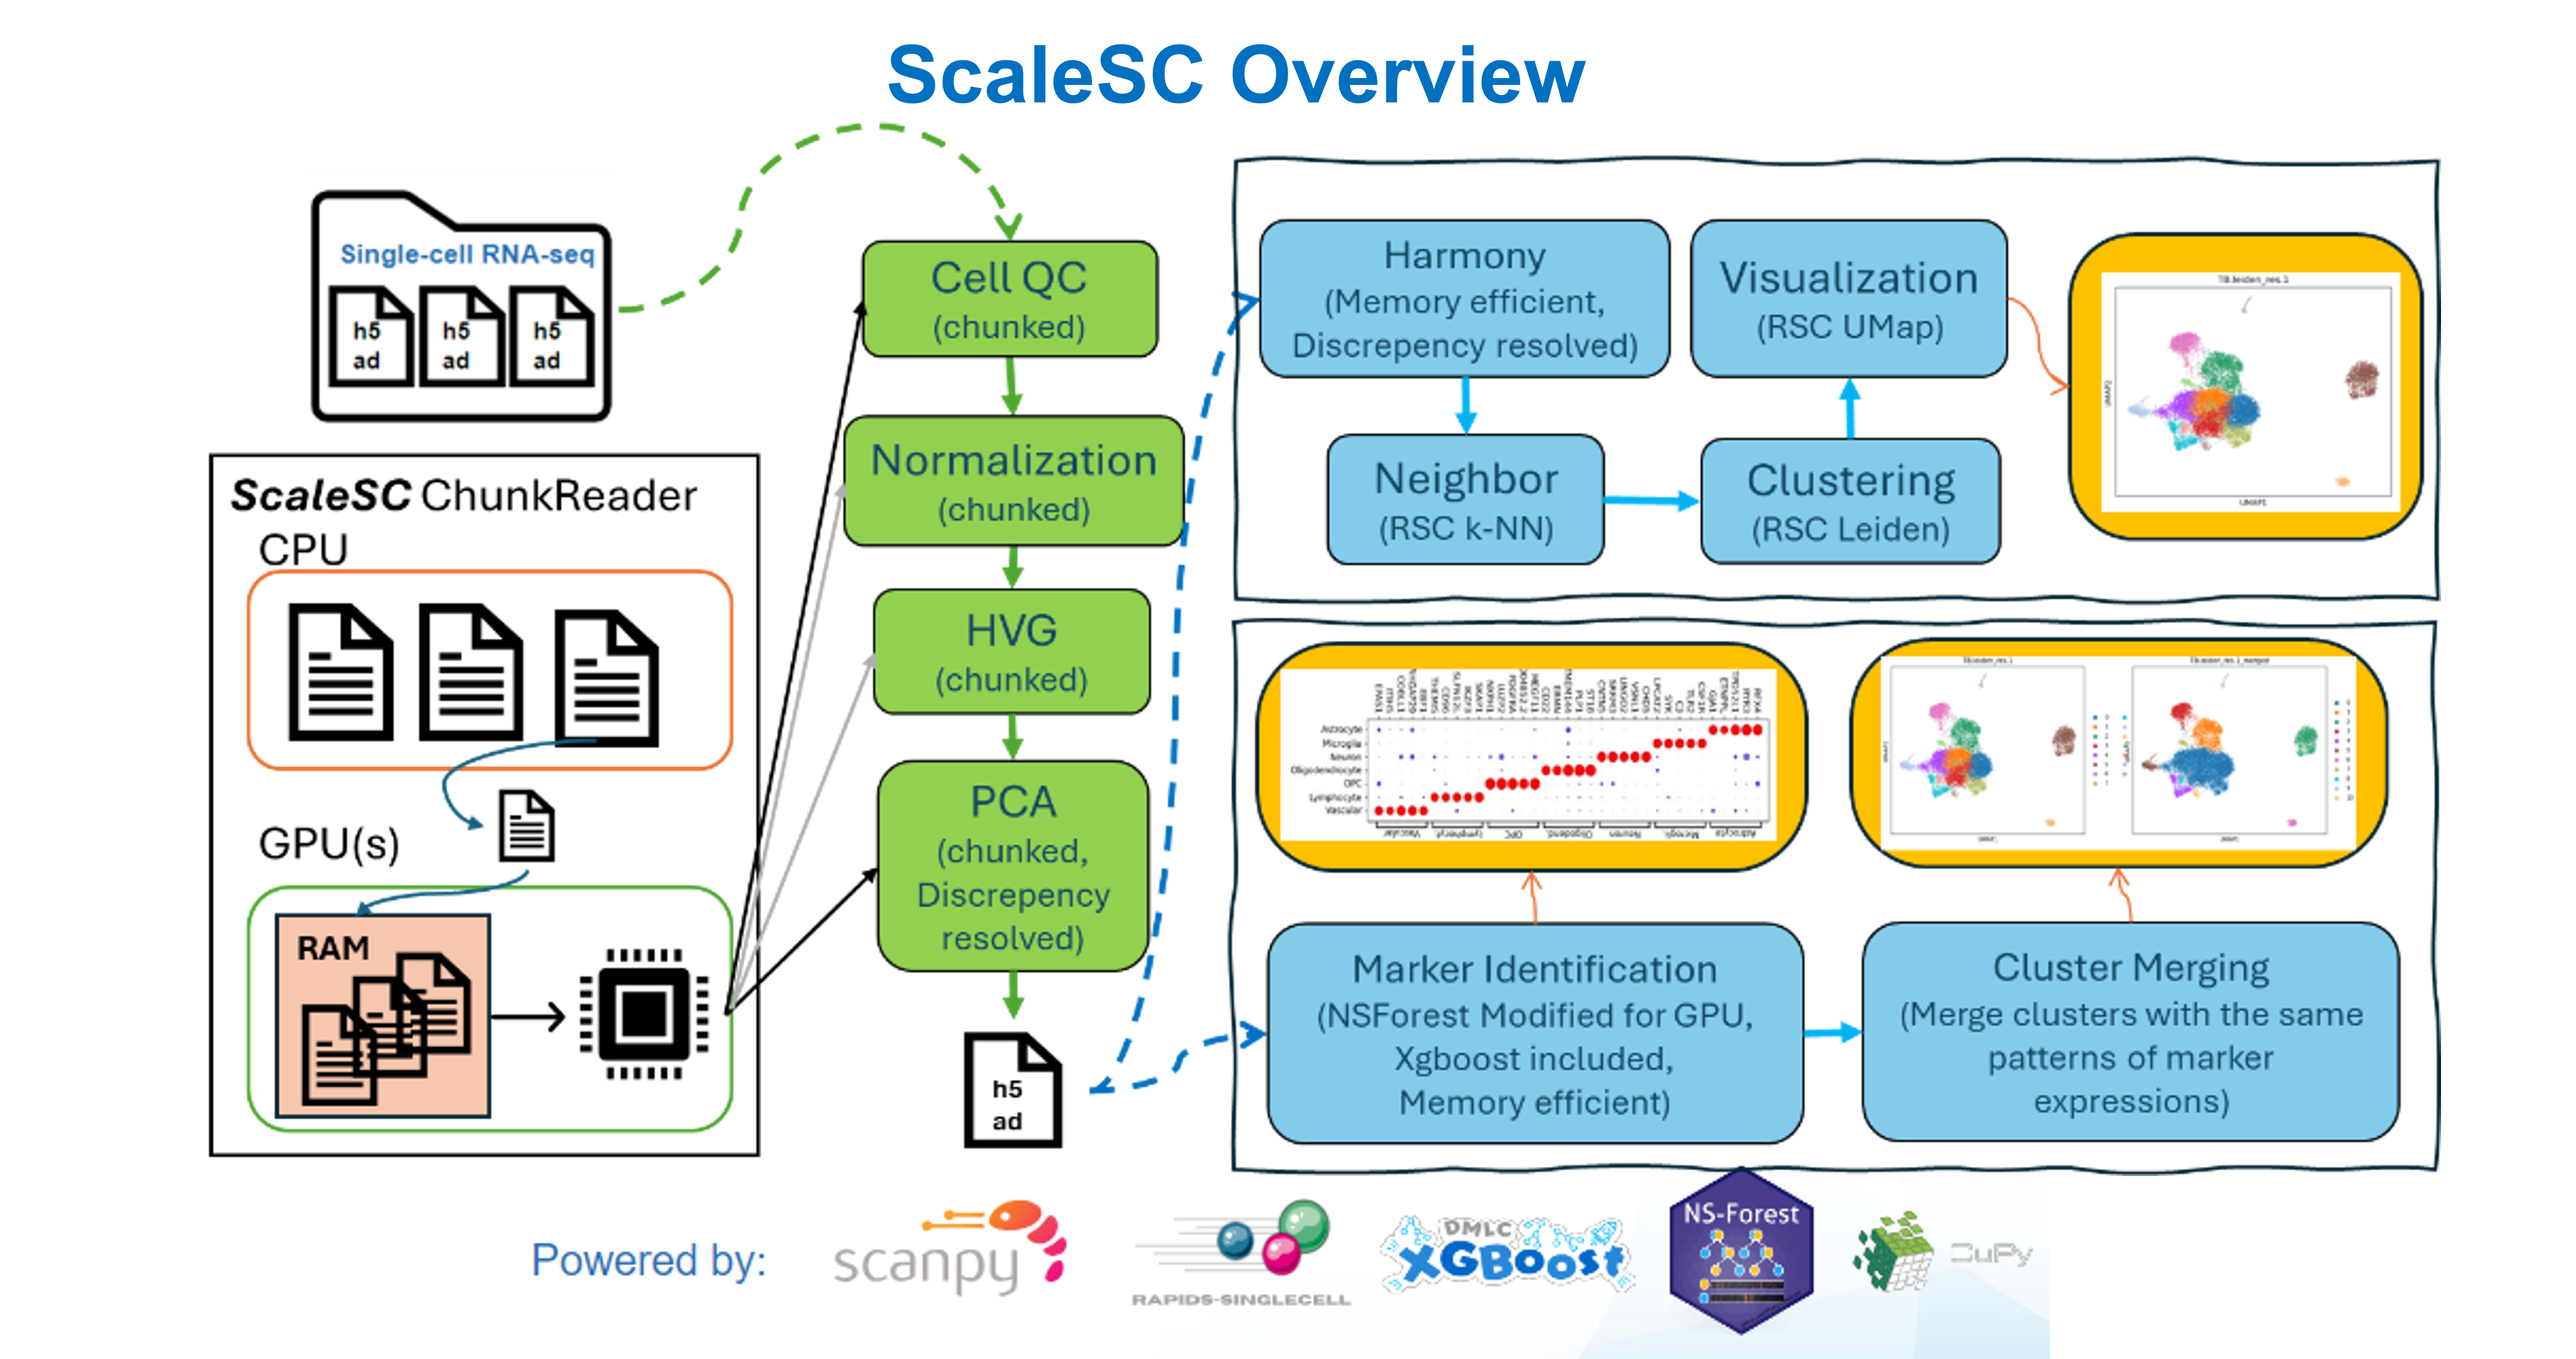
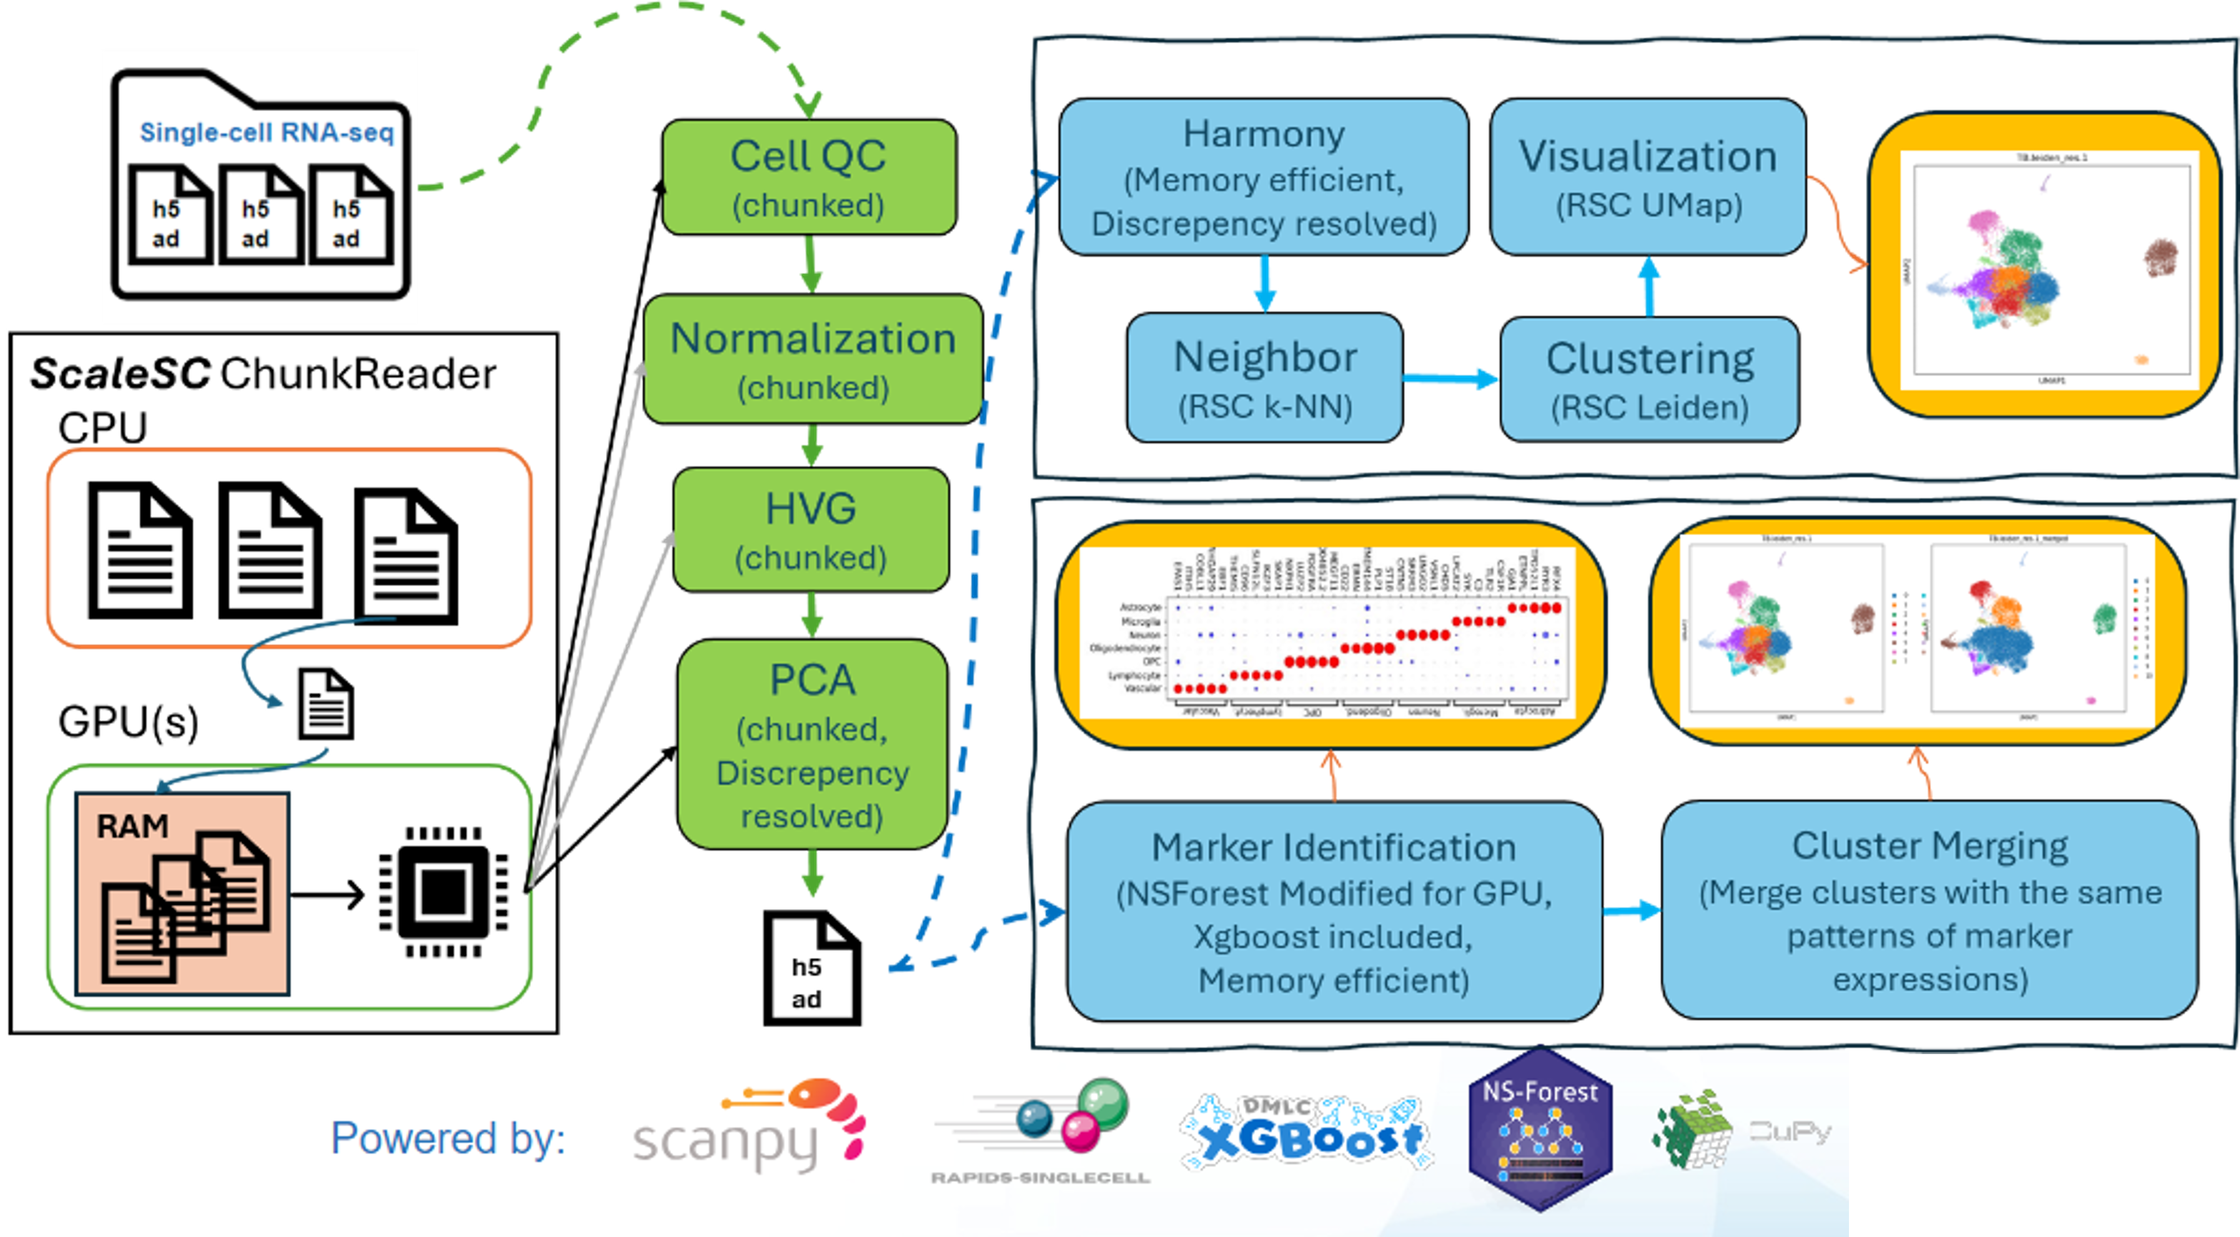
update tutorial

diff --git a/README.md b/README.md
@@ -40,7 +40,7 @@
 
 <b>What can ScaleSC do?</b>
 
-<img src="./img/scalesc_pipeline.png" alt="pipeline" width="75%" height="auto">
+<img src="./img/scalesc_pipeline.png" alt="pipeline" width="90%" height="auto">
 
 </div>
 
@@ -49,7 +49,7 @@
 
 <b>ScaleSC Overview</b>
 
-<img src="./img/scalesc_overview.png" alt="pipeline" width="75%" height="auto">
+<img src="./img/scalesc_overview.png" alt="pipeline" width="90%" height="auto">
 
 </div>
 
